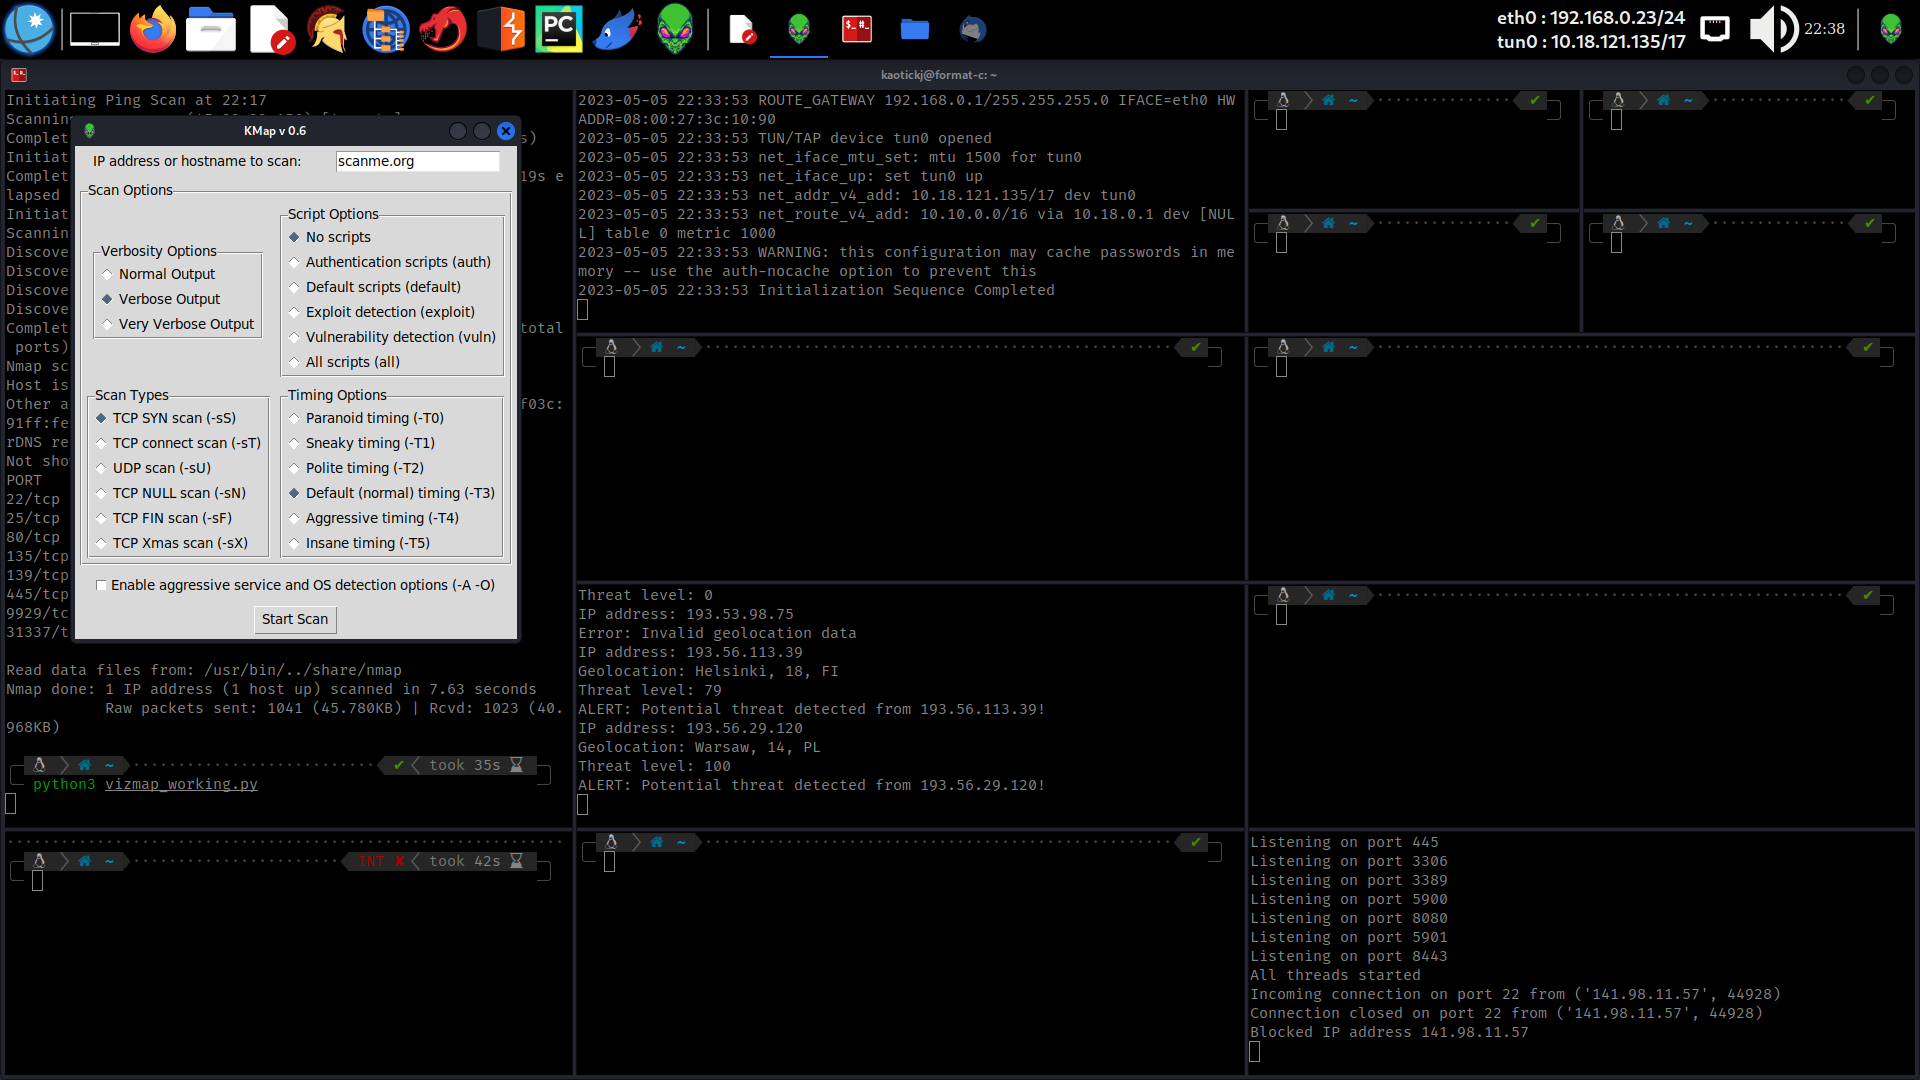
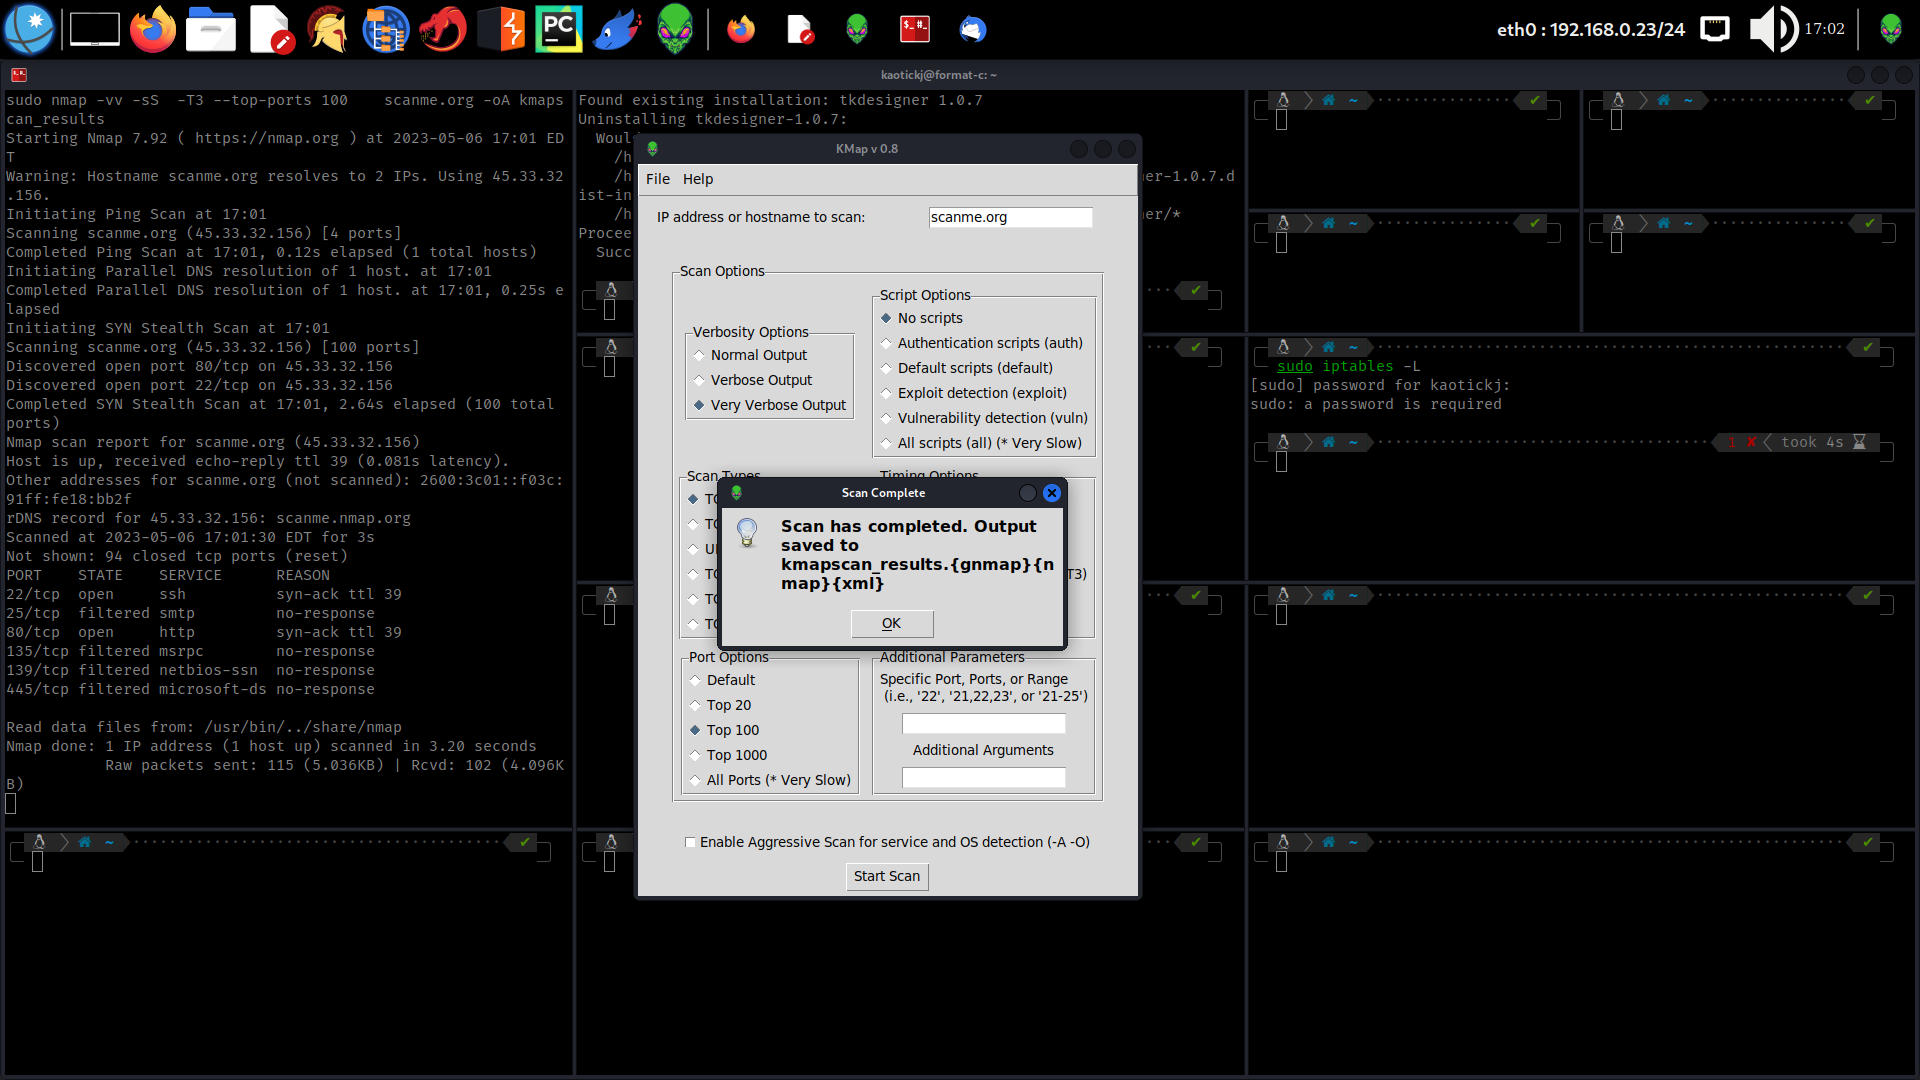
improves ux adds additional options

diff --git a/kmap.py b/kmap.py
@@ -1,7 +1,7 @@
 #!/usr/bin/env python3
-# Script: KMap v 0.8
+# Script: KMap v 0.9
 # Author: kaotickj
-# Website: kdgwebsolutions.com
+# Website: https://github.com/kaotickj/KMap/
 
 import re
 import os
@@ -9,7 +9,38 @@ import tkinter as tk
 from tkinter import *
 from tkinter import ttk
 from tkinter import messagebox
+from tkinter import filedialog
 
+class Application(tk.Frame):
+    def __init__(self, master=None):
+        super().__init__(master)
+        self.master = master
+        self.master.geometry("500x700+200+200")
+        self.create_widgets()
+
+    def create_widgets(self):
+        menubar = tk.Menu(self.master)
+        filemenu = tk.Menu(menubar, tearoff=0)
+        filemenu.add_command(label="Open", command=self.open_file)
+        filemenu.add_separator()
+        filemenu.add_command(label="Exit", command=self.master.quit)
+        menubar.add_cascade(label="File", menu=filemenu)
+        helpmenu = tk.Menu(menubar, tearoff=0)
+        helpmenu.add_command(label="About", command=self.about)
+        menubar.add_cascade(label="Help", menu=helpmenu)
+        self.master.config(menu=menubar)
+
+    def open_file(self):
+        # open file dialog
+        file_path = filedialog.askopenfilename()
+
+        # display file contents
+        with open(file_path, 'r') as f:
+            file_contents = f.read()
+        os.system(f"cat '{file_path}'")
+
+    def about(self):
+        messagebox.showinfo("About KMap", "KMap Version 0.9.\n\nKMap 0.9 Provides a graphical user interface solution for running nmap scans \n\nAuthor: kaotickj\n\nWebsite: https://github.com/kaotickj/KMap/")
 
 def validate_ip_address(ip_address):
     # Validate input as IP address or hostname
@@ -19,6 +50,47 @@ def validate_ip_address(ip_address):
     else:
         return False
 
+class ToolTip:
+    def __init__(self, widget, text):
+        self.widget = widget
+        self.text = text
+        self.tip = None
+        self.id = None
+        self.x = self.y = 0
+        
+    def showtip(self):
+        "Display the tooltip"
+        self.tip = tk.Toplevel(self.widget)
+        self.tip.attributes('-topmost', True)
+        self.tip.overrideredirect(True)
+        self.tip.withdraw()
+        label = ttk.Label(self.tip, text=self.text, justify=tk.LEFT,
+                      background="#ffffe0", relief=tk.SOLID, borderwidth=1,
+                      font=("tahoma", "11", "normal"))
+        label.pack(ipadx=1)
+        self.tip.update_idletasks()
+        self.tipwidth = self.tip.winfo_reqwidth()
+        self.tipheight = self.tip.winfo_reqheight()
+        self.x = self.widget.winfo_rootx() + self.widget.winfo_width()
+        self.y = self.widget.winfo_rooty() + self.widget.winfo_height()
+        self.tip.geometry("+{}+{}".format(self.x, self.y))
+        self.tip.deiconify()
+        
+    def hidetip(self):
+        "Hide the tooltip"
+        if self.tip:
+            self.tip.withdraw()
+            self.tip.destroy()
+            self.tip = None
+
+def create_tooltip(widget, text):
+    tip = ToolTip(widget, text)
+    def enter(event):
+        tip.showtip()
+    def leave(event):
+        tip.hidetip()
+    widget.bind('<Enter>', enter)
+    widget.bind('<Leave>', leave)
 
 def start_scan():
     ip_address = ip_address_entry.get()
@@ -46,7 +118,13 @@ def start_scan():
 
 
 root = tk.Tk()
-root.title("KMap v 0.8")
+root.title("KMap v 0.9")
+root.rowconfigure(0, weight = 1)
+root.rowconfigure(1, weight = 3)
+root.columnconfigure(0, weight = 1)
+root.columnconfigure(1, weight = 3)
+app = Application(master=root)
+
 logo_file = "alien.png"
 if os.path.exists(logo_file):
     logo = PhotoImage(file=logo_file)
@@ -64,7 +142,7 @@ options_frame = ttk.LabelFrame(root, text="Scan Options")
 options_frame.grid(column=0, row=1, columnspan=2, padx=5, pady=5)
 
 # Set up the verbosity options
-verbosity_choice = tk.StringVar(value="-v")
+verbosity_choice = tk.StringVar(value="")
 verbosity_options = [
     {"text": "Normal Output", "value": ""},
     {"text": "Verbose Output", "value": "-v"},
@@ -104,7 +182,7 @@ nmap_script_options = [
     {"text": "Default scripts (default)", "value": "--script default"},
     {"text": "Exploit detection (exploit)", "value": "--script exploit"},
     {"text": "Vulnerability detection (vuln)", "value": "--script vuln"},
-    {"text": "All scripts (all)", "value": "--script all"}
+    {"text": "All scripts (all) (* Very Slow)", "value": "--script all"}
 ]
 # Create a frame to group the script options
 nmap_script_options_frame = ttk.LabelFrame(options_frame, text="Script Options")
@@ -133,16 +211,13 @@ for i, option in enumerate(timing_option_options):
                     value=option["value"]).grid(column=4, row=i, sticky="W", padx=5, pady=2)
 
 # Set up the port options radio buttons
-port_options_label = ttk.Label(root, text="Port Options")
-port_options_label.grid(column=0, row=0, padx=5, pady=5)
-
 port_option_choice = tk.StringVar(value="")
 port_option_options = [
     {"text": "Default", "value": ""},
     {"text": "Top 20", "value": "--top-ports 20"},
     {"text": "Top 100", "value": "--top-ports 100"},
     {"text": "Top 1000", "value": "--top-ports 1000"},
-    {"text": "All Ports (* Very Slow)", "value": "-p-"},
+    {"text": "All Ports (* Very Slow)", "value": "-p-"}
 ]
 # Create a frame to group the port options
 port_option_frame = ttk.LabelFrame(options_frame, text="Port Options")
@@ -156,26 +231,28 @@ for i, option in enumerate(port_option_options):
 param_option_frame = ttk.LabelFrame(options_frame, text="Additional Parameters")
 param_option_frame.grid(column=1, row=3, padx=5, pady=5)
 
-port_option_range = ttk.Label(param_option_frame, text="Specific Port or Range - Only if\nyou didn't set a Port Option")
-port_option_range.grid(column=0, row=0, sticky="W", padx=5, pady=2)
+port_option_range = ttk.Label(param_option_frame, text="Specific Port, Ports, or Range\n (i.e., '22', '21,22,23', or '21-25')")
+port_option_range.grid(column=0, row=0, padx=5, pady=2)
 port_option_range_entry = ttk.Entry(param_option_frame)
-port_option_range_entry.grid(column=0, row=1, sticky="W", padx=5, pady=5)
+create_tooltip(port_option_range_entry, "Note: Setting this Overrides Port Options")
+port_option_range_entry.grid(column=0, row=1, padx=5, pady=5)
 port_option_range_choice = "-p "
 
 addt_args = ttk.Label(param_option_frame, text="Additional Arguments")
-addt_args.grid(column=0, row=2, sticky="W", padx=5, pady=2)
+addt_args.grid(column=0, row=2, padx=5, pady=2)
 addt_args_entry = ttk.Entry(param_option_frame)
-addt_args_entry.grid(column=0, row=3, sticky="W", padx=5, pady=5)
+create_tooltip(addt_args_entry, "For Example '-Pn' for no ping or\n enter additional scan types. Takes\n any valid nmap arguments")
+addt_args_entry.grid(column=0, row=3, padx=5, pady=5)
 
 # Set up the Aggressive scan options Checkbutton
 is_aggressive_scan = tk.BooleanVar()
 aggressive_scan_options_checkbutton = ttk.Checkbutton(root,
-                                                      text="Enable aggressive service and OS detection options (-A -O)",
+                                                      text="Enable Aggressive Scan for service and OS detection (-A -O)",
                                                       variable=is_aggressive_scan)
 aggressive_scan_options_checkbutton.grid(column=0, row=3, columnspan=2, padx=5, pady=5)
-
+create_tooltip(aggressive_scan_options_checkbutton , "             	   ** PLEASE NOTE: **\nAggressive Scan is VERY slow and intrusive.**")
 # Add a button to start the scan
 start_button = ttk.Button(root, text="Start Scan", command=start_scan)
-start_button.grid(column=0, row=4, columnspan=2, padx=5, pady=5)
+start_button.grid(column=0, row=5, columnspan=2, padx=5, pady=5)
 
 root.mainloop()
